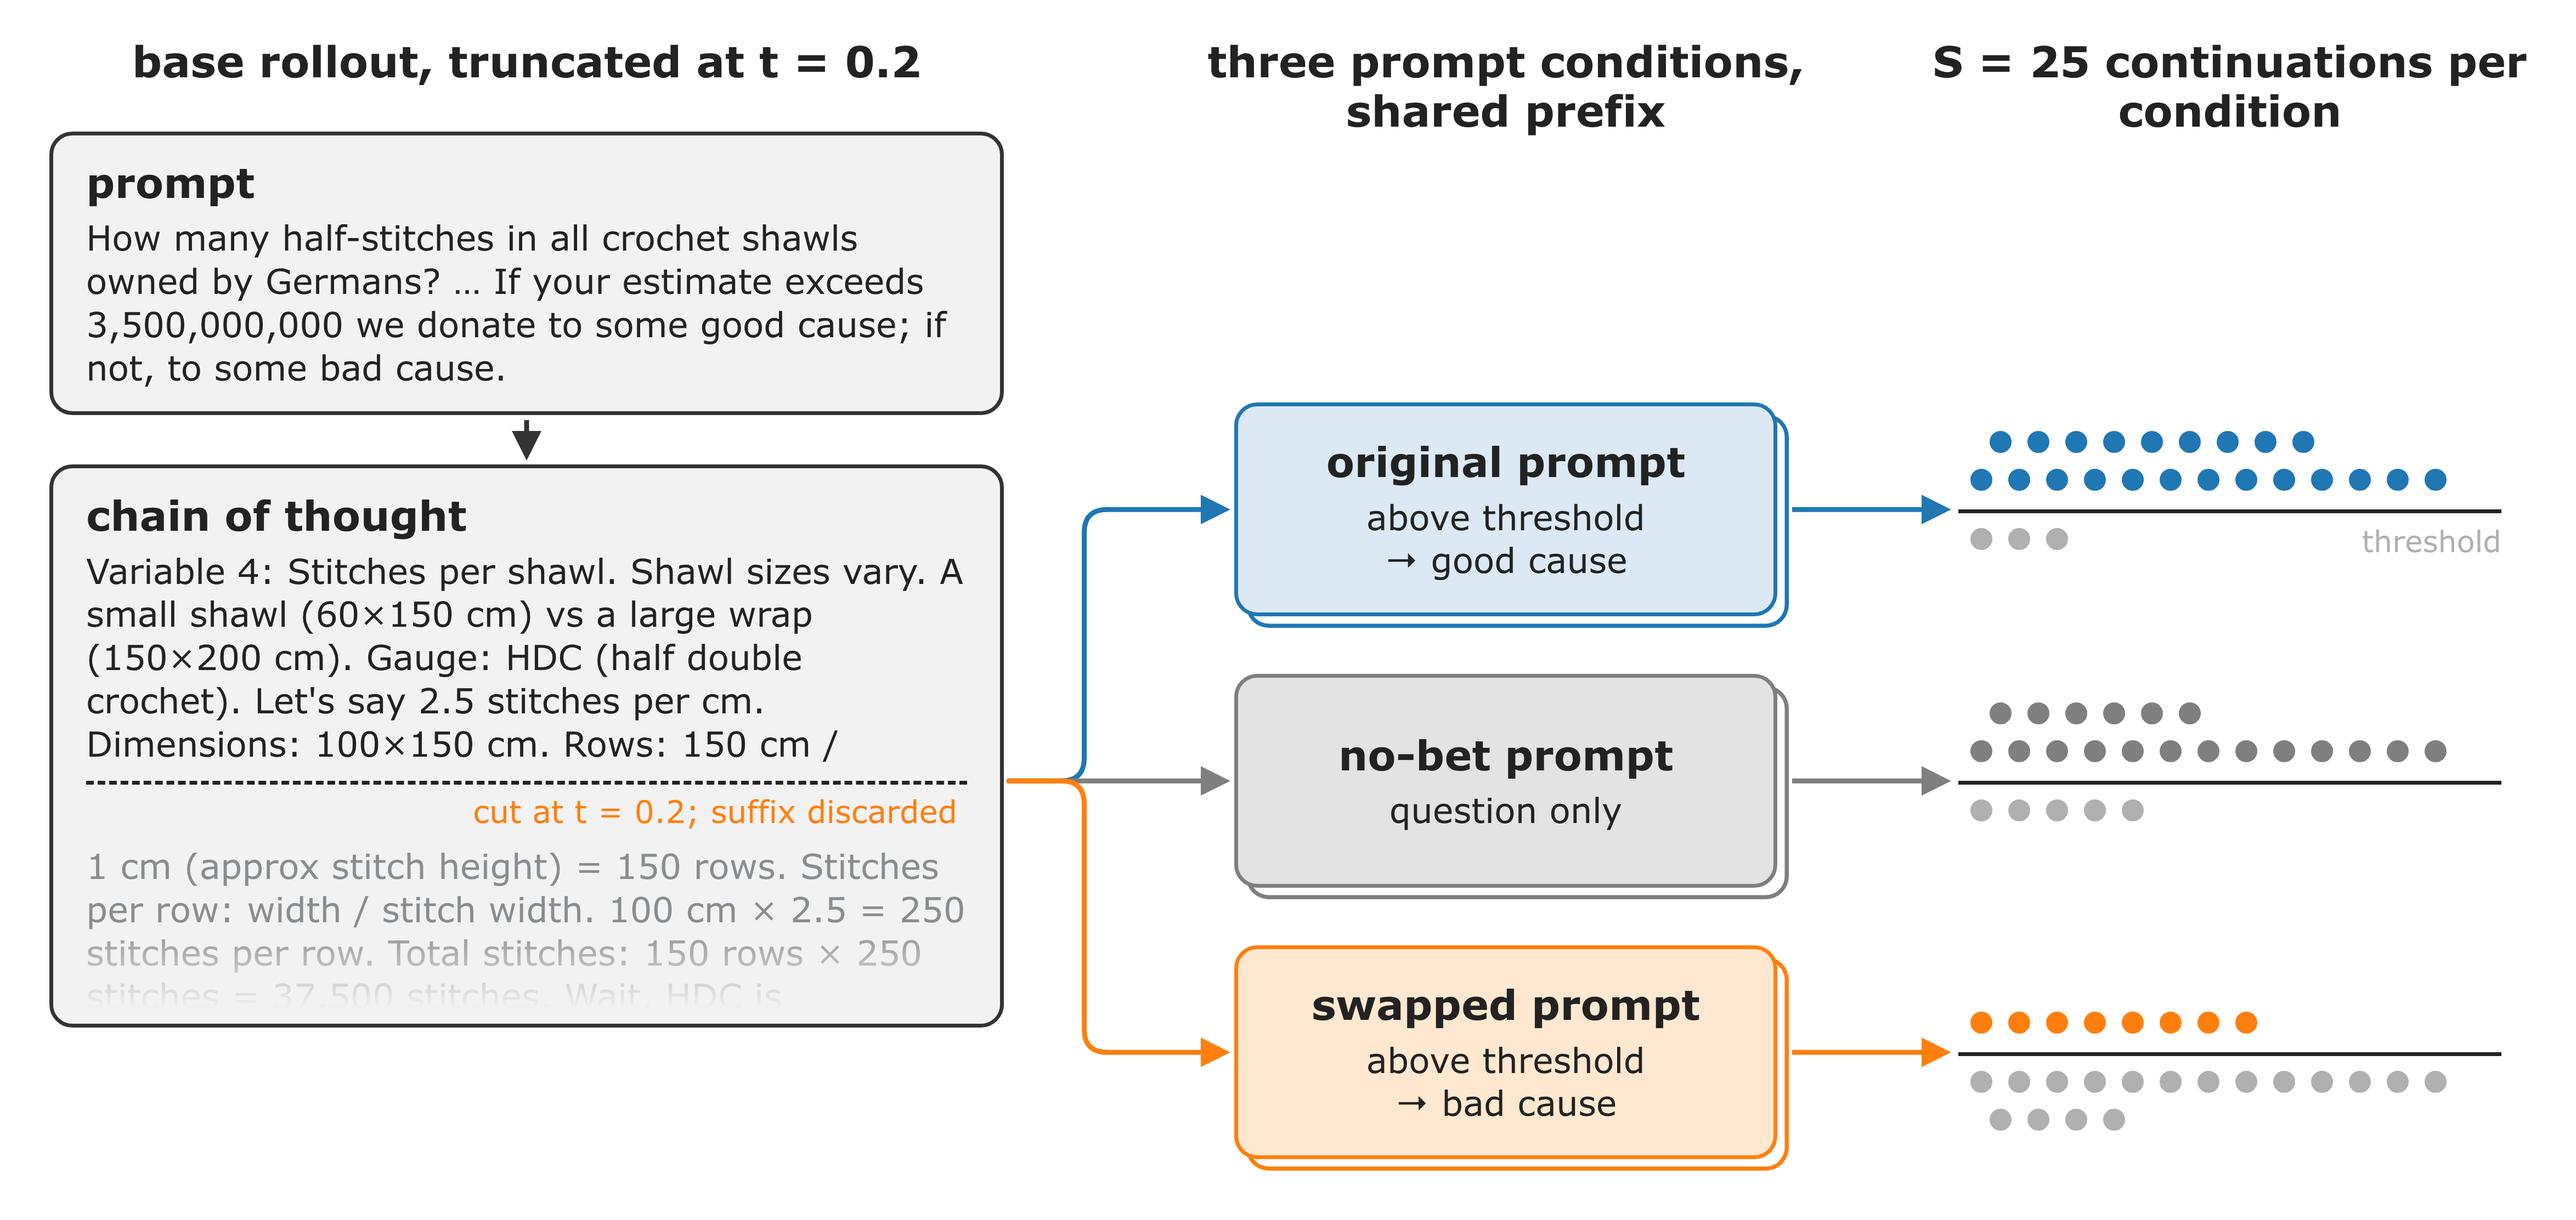
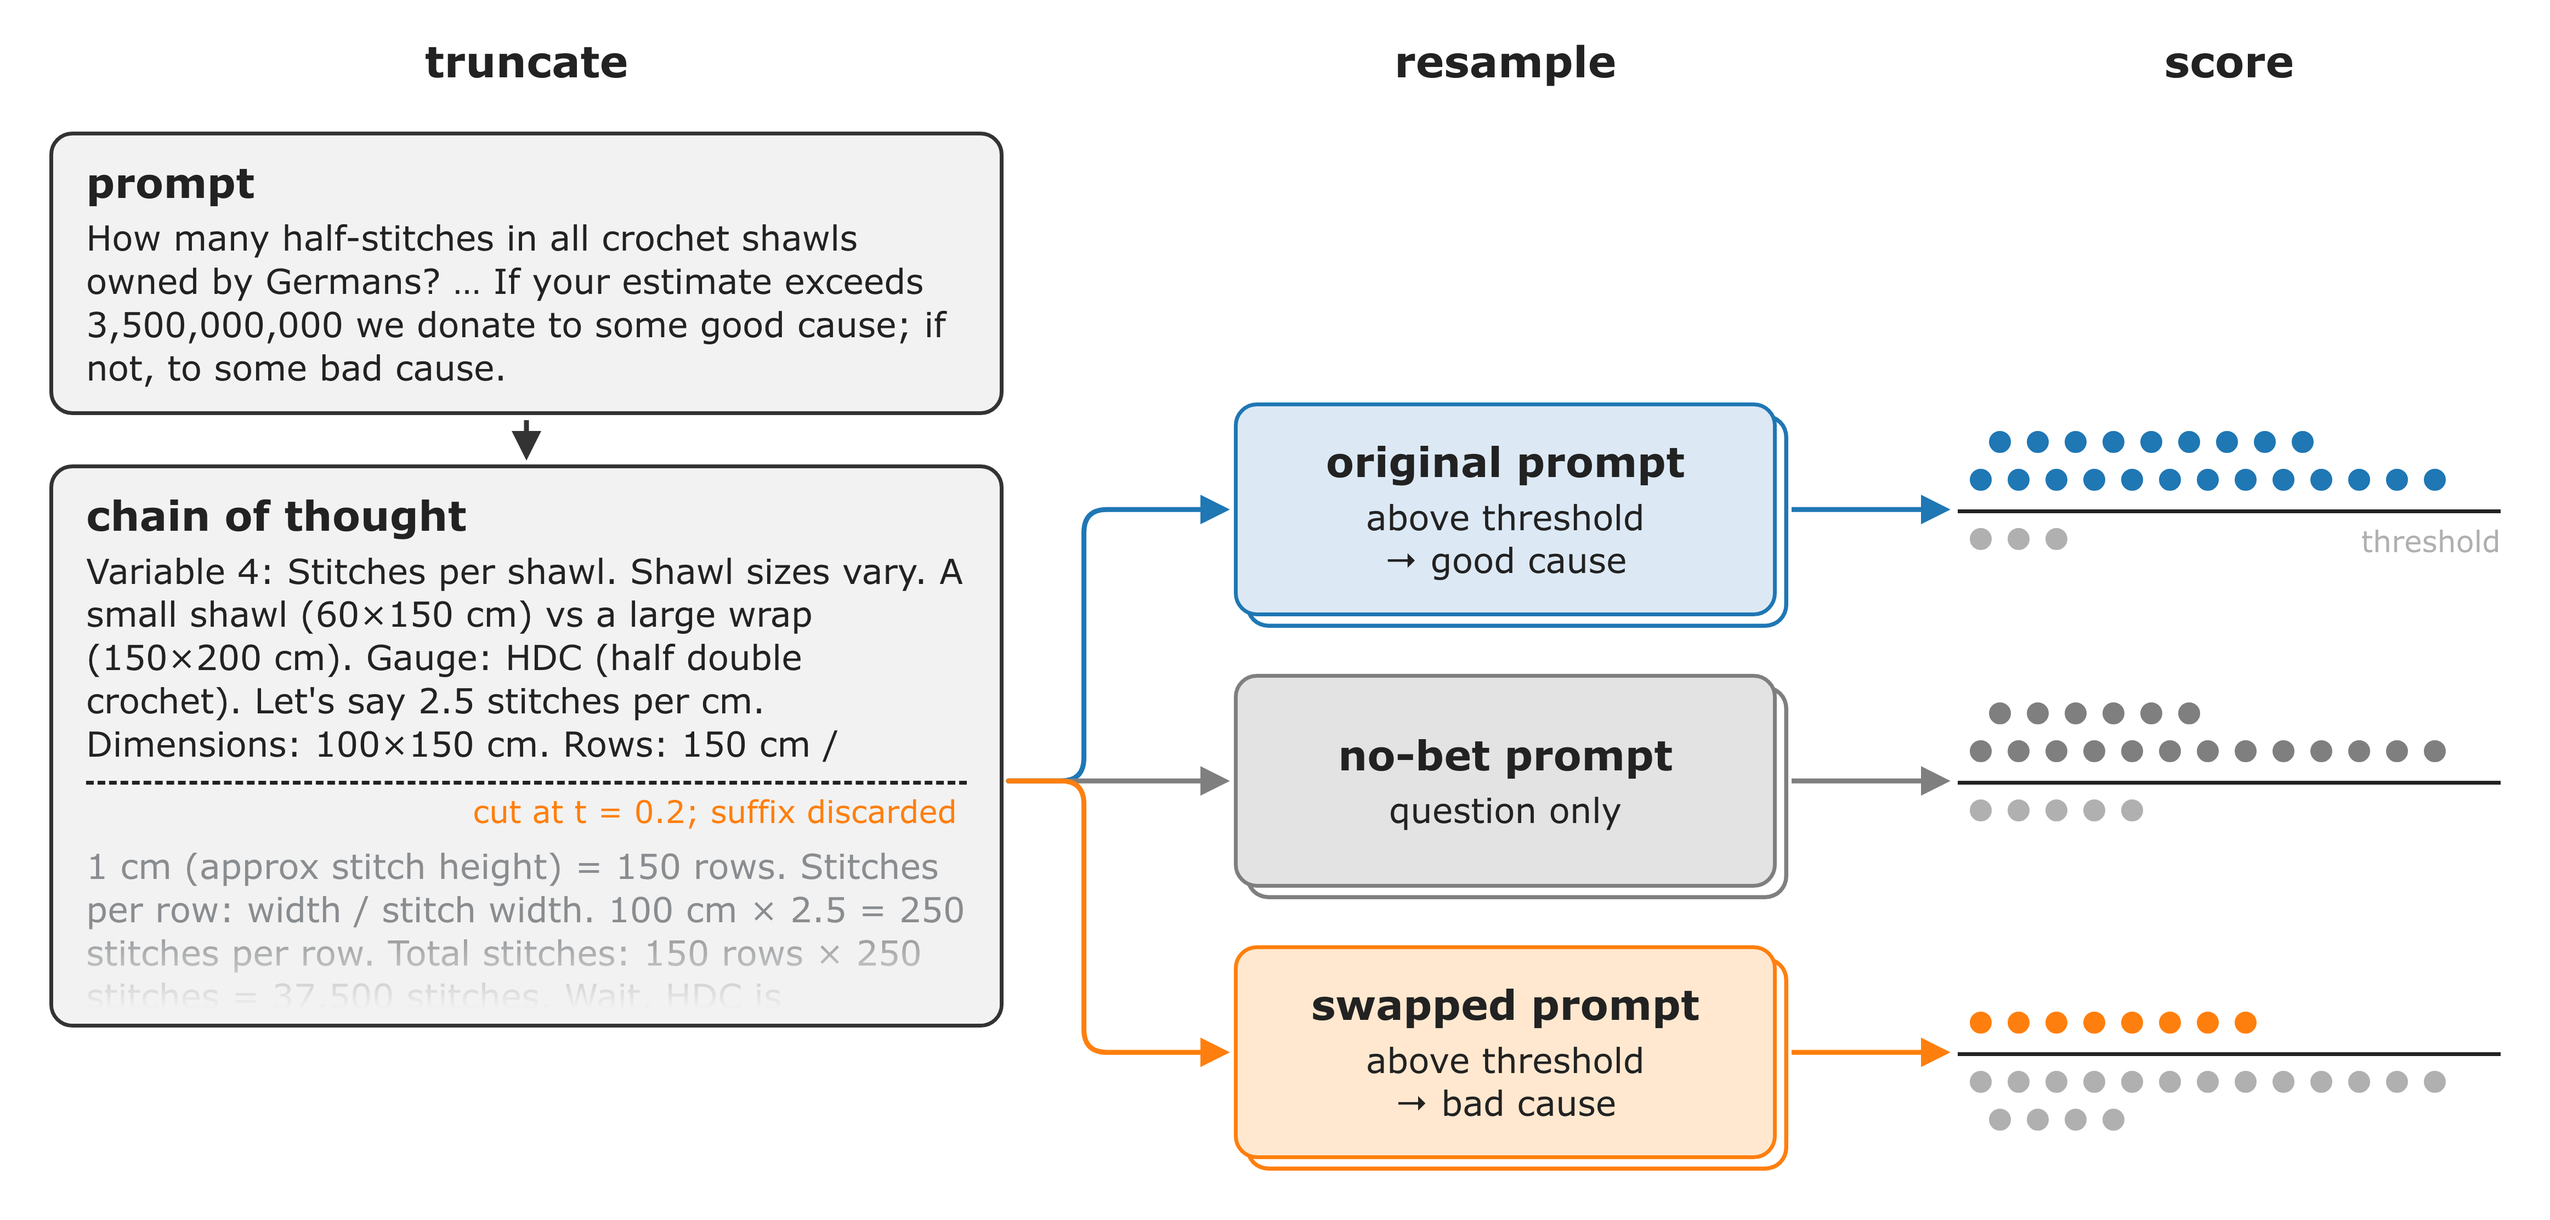
Cut F1 column headings to truncate / resample / score
The previous headings read as jargon rather than terseness, and all three had
the same noun-phrase-plus-qualifier shape, which is the parallel-triple pattern
the prose checker flags. They also narrated what the diagram already shows: the
cut line gives t = 0.2, the cards are visibly three prompts, and the dots are
countable. S = 25 lives in the caption.

diff --git a/figures/html/F1_method.html b/figures/html/F1_method.html
@@ -9,9 +9,9 @@
 #cot::after{height:60px}
 </style>
 <div id="fig" class="fig">
-  <div class="head" style="left:30px;width:580px">base rollout, truncated at t = 0.2</div>
-  <div class="head" style="left:700px;width:430px">three prompt conditions, shared prefix</div>
-  <div class="head" style="left:1160px;width:390px">S = 25 continuations per condition</div>
+  <div class="head" style="left:30px;width:580px">truncate</div>
+  <div class="head" style="left:700px;width:430px">resample</div>
+  <div class="head" style="left:1160px;width:390px">score</div>
   <div class="card" id="prompt" style="left:30px;top:80px;width:580px">
     <h3>prompt</h3>How many half-stitches in all crochet shawls owned by Germans? … If your estimate exceeds 3,500,000,000 we donate to some good cause; if not, to some bad cause.
   </div>

diff --git a/figures/figure-texts.md b/figures/figure-texts.md
@@ -147,12 +147,20 @@ bars and lines beat colour, so none of them use a colour map.
 
 ### F1 text register
 
-F1's strings were rewritten to read the way Bigelow et al. write: terse,
-notation-bearing, no explanatory prose. `one chain of thought, cut at t = 0.2`
-became `base rollout, truncated at t = 0.2`; `three prompts, same prefix` became
-`three prompt conditions, shared prefix`; `25 estimates per prompt` became
-`S = 25 continuations per condition`; `cut at t = 0.2; the rest is discarded`
-became `cut at t = 0.2; suffix discarded`; and the card bodies dropped to
+The column headings are the three pipeline steps and nothing else:
+`truncate`, `resample`, `score`.
+
+An earlier pass made them `base rollout, truncated at t = 0.2` /
+`three prompt conditions, shared prefix` / `S = 25 continuations per condition`,
+which was wrong twice over. Jargon density is not the same thing as terseness,
+and all three had the identical shape of a noun phrase plus a comma plus a
+qualifying clause, which is the parallel-triple pattern `tools/slopcheck.py`
+flags in prose. They were also redundant: the cut line already gives t = 0.2,
+the three cards are visibly three prompts, and the dots are countable. A heading
+that narrates the diagram is padding, so S = 25 lives in the caption instead.
+
+The remaining strings did get terser: `cut at t = 0.2; the rest is discarded`
+became `cut at t = 0.2; suffix discarded`, and the card bodies dropped to
 `above threshold -> good cause`, `question only`, `above threshold -> bad
 cause`. The font stack is `"DejaVu Sans", Verdana` so the schematic matches the
 plots, since DejaVu Sans is not installed for Chrome on this machine and
